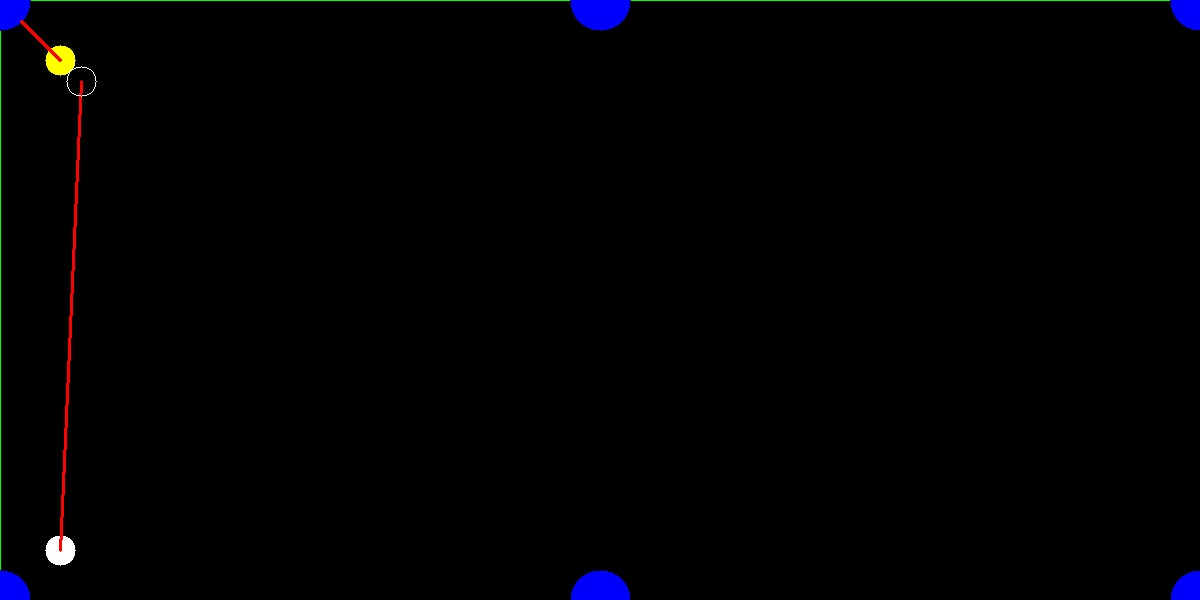
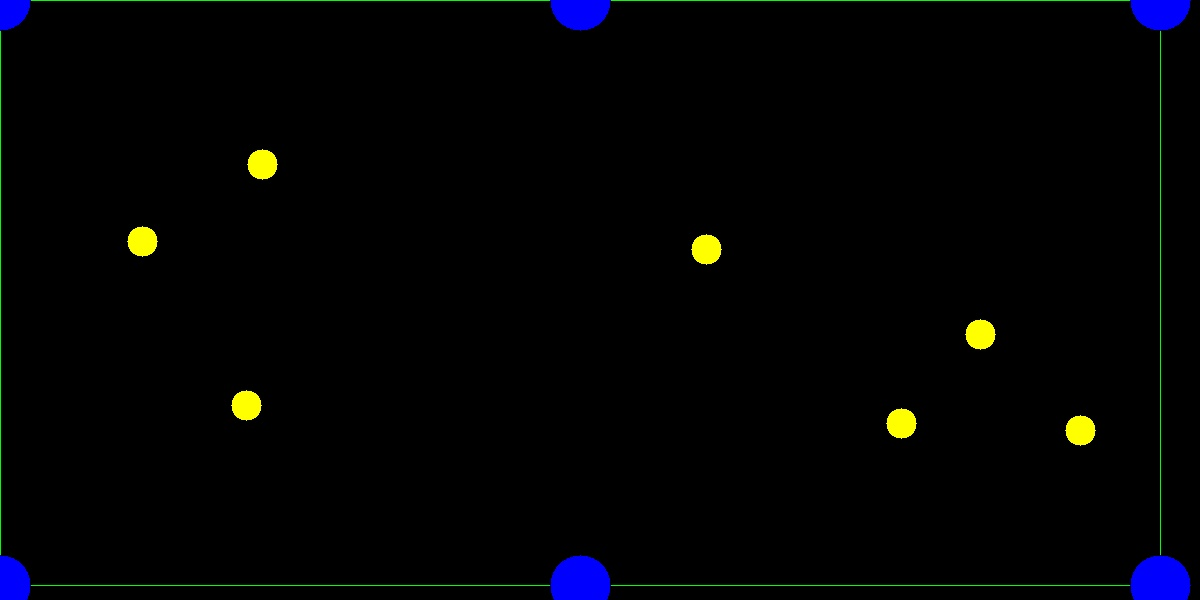
updated stuff

diff --git a/pool_ball_rec_2.py b/pool_ball_rec_2.py
@@ -23,7 +23,7 @@ kernel = np.ones((3, 3), np.uint8)
 def DetectPoolBalls():
     success,img = imcap.read()
     #img = LoadImage('img/pool_balls.jpeg')
-    img = img[100:700,360:1520]
+    img = img[115:700,360:1520]
     #Now the table is cropped and warped, lets find the balls
     hsv = ToHSV(img)
     
@@ -31,12 +31,25 @@ def DetectPoolBalls():
     
     contours = GetContours(hsv, lower_color, upper_color,21)
         
-    centers = FindTheBalls(img, contours, similarity_threshold=18)
+    centers = FindTheBalls(img, contours, similarity_threshold=25)
     #print(len(centers))
+    #IncreaseSaturation(img)
     cue, solids, eight_ball, stripes = FindTheColors(img,centers)
     final_list = BuildTheList(cue, solids, eight_ball, stripes)
     print(final_list)
     return final_list
+
+def IncreaseSaturation(img):
+    cv2.imshow("before", img)
+    hsv = ToHSV(img)
+    maxX, maxY, ___ = hsv.shape
+    for x in range(maxX):
+        for y in range(maxY):
+            hsv[x,y][1] = 255
+    tmp_img = cv2.cvtColor(hsv.copy(), cv2.COLOR_HSV2BGR)
+    cv2.imshow("after", tmp_img)
+    return tmp_img
+    
 
 def LoadImage(filename):
     """
@@ -83,6 +96,7 @@ def GetContours(hsv, lower_color, upper_color,filter_radius):
     cv2.imshow('median_detect', median)
     mask = cv2.erode(mask, kernel, iterations=6)
     mask = cv2.dilate(mask, kernel, iterations=3)
+    cv2.imshow('eroision&dilate', median)
     
     #get the contours of the filtered mask
     #this modifies median in place!
@@ -135,9 +149,15 @@ def FindTheColors(img, centers):
         numOfBlackPixels = 0
         numOfOtherPixels = 0
         maxX, maxY, ___ = img.shape
-            
+        print(centerY, centerX)
+        if (centerY > 820 and centerY < 840):
+            tmp_img = img[centerX - radius:centerX + radius,centerY - radius:centerY + radius]
+            cv2.imshow("tmp_img", tmp_img)
         for x in range(centerX - radius, centerX + radius):
             for y in range(centerY - radius, centerY + radius):
+                """if (centerY > 655 and centerY < 675):
+                    print(x,y)
+                    print(img[x,y])"""
                 if lengthOfLine(centerX,centerY,x,y) >radius:
                     continue
                 if (0 < x < maxX and 0 < y < maxY and img[x,y][0] > 180 and img[x,y][1] > 180 and img[x,y][2] > 180):
@@ -146,7 +166,7 @@ def FindTheColors(img, centers):
                     numOfBlackPixels +=1
                 else:
                     numOfOtherPixels +=1
-        
+        print(numOfBlackPixels, numOfWhitePixels, numOfOtherPixels)
         if numOfBlackPixels > 100:
             eight_ball.append((centerY,centerX,radius))
             cv2.circle(img,(int(centerY),int(centerX)),int(radius),(0,0,0),2)
@@ -169,9 +189,7 @@ def FindTheColors(img, centers):
             solids.append((centerY,centerX,radius))
             cv2.circle(img,(int(centerY),int(centerX)),int(radius),GREEN,2)
     cv2.imshow('colors_detected', img)
-    cue.sort(key = compare)
     solids.sort(key = compare)
-    """eight_ball = eight_ball.sort()"""
     stripes.sort(key = compare)
     return cue, solids, eight_ball, stripes
 
@@ -240,8 +258,9 @@ final_list = DetectPoolBalls()
 while True:
     final_list = DetectPoolBalls()
     #print(final_list)
-    #detect_changes(final_list)
+    detect_changes(final_list)
     #call Devank's function with my code
+    cv2.waitKey()
     if cv2.waitKey(10) & 0xFF == ord('q'):
         break
     #break

diff --git a/shot_calculation.py b/shot_calculation.py
@@ -102,7 +102,7 @@ pocket_for_each_ball = [[NAN,INF],[NAN,INF],[NAN,INF],[NAN,INF],[NAN,INF],
 
 
 #A list of pockets with each element being an x-y coordinate for the pocket
-pockets = [[0,0],[600,0],[1200,0],[1200,600],[600,600],[0,600]]
+pockets = [[0,0],[580,0],[1160,0],[1160,585],[580,585],[0,585]]
 center_edges = [[NAN,NAN],[NAN,NAN],[NAN,NAN],[NAN,NAN],[NAN,NAN],[NAN,NAN]]
 
 #A list of X and Y coordinates for each ball
@@ -666,7 +666,7 @@ def start_calc(lX,lY):
         listY[target_ball] = lY[target_ball]
     #print("New List X = {lx}".format(lx = listX))
     #print("New List X = {lx}".format(lx = listY))
-    find_pocket_centers()
+    calc_center_edges()
     find_distance_to_all_pockets()
     create_first_lines()
     create_second_lines()
